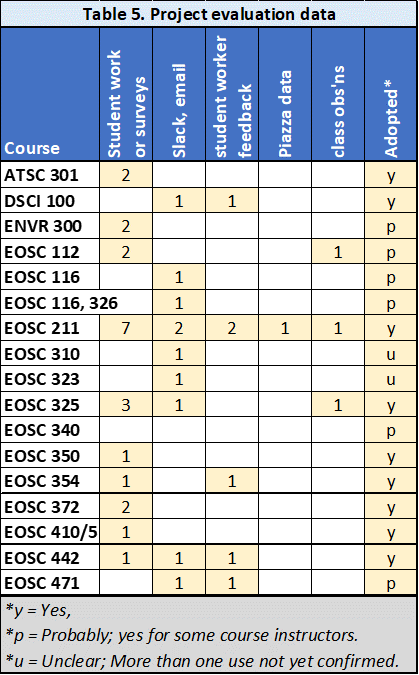
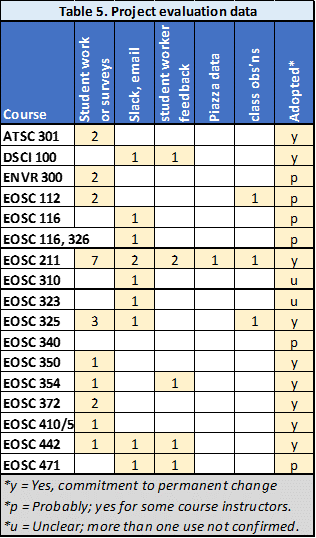
latest updates, May26

Changed region(s): [[0.0, 0.0, 1.0, 1.0]]

diff --git a/docs/presentations.md b/docs/presentations.md
@@ -1,22 +1,22 @@
-# Communications about OCESE project work
+# OCESE project work Communications
 
-Scholarly contributions are fewer than "normal" owing to constraints experienced between 2020 and 2022.
+Scholarly contributions are fewer than "normal" owing to constraints experienced between 2020 and 2023.
 
-## Scholarly contributions
+## Dissemination
 
-Scholarly contributions are fewer than we in EOAS would have expected owing to constraints experienced between 2020 and 2022. Most of the following were delivered at relatively informal events within UBC, but **>>two** were presented as peer-reviewed posters at formal conferences.
+Most of the following were delivered at relatively informal events within UBC. However, **>>two** were presented as peer-reviewed posters at formal conferences.
 
-1. **>>July 2023**: Jones, F., Austin, P., Invanochko, T. "[Lessons Learned While Implementing Open Source Computational Tools and Practices for Learning Quantitative Earth Sciences"](https://serc.carleton.edu/earth_rendezvous/2023/program/posters/friday/263242.html), Poster at **Earth Educators Rendezvous 2023** meeting, Pasadena, Calif.
-2. **May 2023**: Project progress report as a poster: [TLEF project summary: Embedding Opensource Computational Tools into the Quantitative Earth Science Specializations](https://tlef2.sites.olt.ubc.ca/files/2023/04/2023-SCI-Tara-Ivanochko.pdf).
-3. **May 2022**: P. Austin. "[Creating Inclusion and Accessibility through Data Science: Challenges and Solutions](https://wiki.ubc.ca/images/6/6f/Celebrate_Learning_-_Data_Science_and_Inclusion.pdf)"; Panel discussion, part of UBC's [Celebrate Learning](https://wiki.ubc.ca/Documentation:CTLT_programs/2022-Celebrate_Learning_Week) week.
-4. **May 2022**: Project progress report as a poster: [Future-ready computing & quantitative skills; opensource solutions in Earth Science courses](https://tlef2.sites.olt.ubc.ca/files/2022/05/2022-SCI-Tara-Ivanochko.pdf).
+1. **>>July 2023**: Jones, F., P. Austin, T. Invanochko, "[Lessons Learned While Implementing Open Source Computational Tools and Practices for Learning Quantitative Earth Sciences"](https://serc.carleton.edu/earth_rendezvous/2023/program/posters/friday/263242.html), Poster at **Earth Educators Rendezvous 2023** meeting, Pasadena, Calif.
+2. **May 2023**: Jones, F., P. Austin, T. Invanochko, Project progress report as a poster: [TLEF project summary: Embedding Opensource Computational Tools into the Quantitative Earth Science Specializations](https://tlef2.sites.olt.ubc.ca/files/2023/04/2023-SCI-Tara-Ivanochko.pdf).
+3. **May 2022**: P. Austin, "[Creating Inclusion and Accessibility through Data Science: Challenges and Solutions](https://wiki.ubc.ca/images/6/6f/Celebrate_Learning_-_Data_Science_and_Inclusion.pdf)"; Panel discussion, part of UBC's [Celebrate Learning](https://wiki.ubc.ca/Documentation:CTLT_programs/2022-Celebrate_Learning_Week) week.
+4. **May 2022**: Jones, F., P. Austin, T. Invanochko, Project progress report as a poster: [Future-ready computing & quantitative skills; opensource solutions in Earth Science courses](https://tlef2.sites.olt.ubc.ca/files/2022/05/2022-SCI-Tara-Ivanochko.pdf).
 5. **March 2022**: F. Jones, A short EOAS Dep't news item [about dashboards](https://www.eoas.ubc.ca/news-events/news/16485372001).
-6. **>>Dec 2021**: Jones, F., Schoof, C., Austin, P., Invanochko, T.: "[Reinvigorating Computational & Quantitative undergraduate Curricula for the Earth, Ocean, Atmospheric, Environmental and Planetary Sciences at UBC](https://agu2021fallmeeting-agu.ipostersessions.com/default.aspx?s=2A-C2-3D-E0-3B-DD-9A-5E-A3-C9-44-74-4B-06-45-A9)", **American Geophysical Union** ([AGU](https://www.agu.org/Fall-Meeting-2022)) poster (link may not be permanently available to the public). See also a [single HTML page](https://www.eoas.ubc.ca/~quest/agu2021-build-211215.htm) version.
-7. **May 2021**: UBC TLEF Showcase, [Opensource Computing for Earth Sciences Education: Lessons learned in year 1 of 3](https://tlef2.sites.olt.ubc.ca/files/2021/05/2021-TLEF-Showcase-SCI-Tara-Ivanochko.pdf).
-8. **May 2021**: P. Austing, Pangeo Showcase. <a href="files/austin_pangeo_may_2021.pdf">ΟCESE: Open source computing for Warth sciences education</a>. See also [video](https://discourse.pangeo.io/t/may-5-2021-ocese-open-source-computing-for-earth-science-education/1443) of the event.
-9. **Sept. 2020**: P. Austin, "[Building an open-source educational community around executable Jupyterbooks](https://ams.confex.com/ams/101ANNUAL/11python/papers/viewonly.cgi?password=582729&username=384767)". American Meteorolgical Society Annual Meeting. 
-10. **August 2020**: UBC [Jupyter Days](https://ubc-dsci.github.io/jupyterdays/), [Writing Canvas quizzes with Jupyter](https://github.com/UBC-DSCI/jupyterdays/blob/master/jupyterdays/sessions/austin-colclough/md2canvas.md)
-11. **July 2020**: Scipy 2020 "BoF" discussion session.
+6. **>>Dec 2021**: Jones, F., C. Shoof, P. Austin, T. Invanochko, "[Reinvigorating Computational & Quantitative undergraduate Curricula for the Earth, Ocean, Atmospheric, Environmental and Planetary Sciences at UBC](https://agu2021fallmeeting-agu.ipostersessions.com/default.aspx?s=2A-C2-3D-E0-3B-DD-9A-5E-A3-C9-44-74-4B-06-45-A9)" (link may not be permanently available to the public), **American Geophysical Union** ([AGU](https://www.agu.org/Fall-Meeting-2022)) poster. See also a [single HTML page](https://www.eoas.ubc.ca/~quest/agu2021-build-211215.htm) version.
+7. **May 2021**: Jones, F., P. Austin, T. Invanochko, UBC TLEF Showcase, [Opensource Computing for Earth Sciences Education: Lessons learned in year 1 of 3](https://tlef2.sites.olt.ubc.ca/files/2021/05/2021-TLEF-Showcase-SCI-Tara-Ivanochko.pdf).
+8. **May 2021**: P. Austin, Pangeo Showcase. ΟCESE: Open source computing for Earth sciences education. See also [video](https://discourse.pangeo.io/t/may-5-2021-ocese-open-source-computing-for-earth-science-education/1443) of the event.
+9. **Sept. 2020**: P. Austin, "[Building an open-source educational community around executable Jupyterbooks](https://ams.confex.com/ams/101ANNUAL/11python/papers/viewonly.cgi?password=582729&username=384767)". American Meteorolgical Society Annual Meeting.
+10. **August 2020**: P. Austin, M. Colclough, UBC [Jupyter Days](https://ubc-dsci.github.io/jupyterdays/), [Writing Canvas quizzes with Jupyter](https://github.com/UBC-DSCI/jupyterdays/blob/master/jupyterdays/sessions/austin-colclough/md2canvas.md)
+11. **July 2020**: P. Austin, Scipy 2020 "BoF" discussion session.
 
 ## EOAS or UBC meetings / workshops
 

diff --git a/docs/fix-list.md b/docs/fix-list.md
@@ -9,8 +9,6 @@ See also **[issues](https://github.com/eoas-ubc/eoas-ubc.github.io/issues)** at 
    * Dep't showcase,
    * TLEF poster,
    * EER poster
-* Courses top page: Change tables from "goals" to "delivered". Use "actions" listed in file `showcase notes 230215.docx`.
-* Jupyter / Python install based on EOSC 211 (and maybe EOSC 354). Does this include use of condalock?
 * Do tutorials need to be more like precedent, i.e. modular such as [Helsinki "short course"](https://autogis-site.readthedocs.io/en/latest/index.html), [Project Pythia](https://projectpythia.org/), or Atlasian tutorials, etc.? In fact, some may best be referenced to these types of existing ones tutorials?
 * Merge two github pages. They could be rewritten as summaries, perhaps based on (or simply pointing to?) the [Atlasian tutorials](https://www.atlassian.com/git/tutorials/comparing-workflows). Maybe also refer to [Ch.12 of the DSCI100 text](https://python.datasciencebook.ca/version-control.html) (still wiht R as context, but updates in progress).
 * Merge two environment pages
@@ -25,10 +23,10 @@ See also **[issues](https://github.com/eoas-ubc/eoas-ubc.github.io/issues)** at 
   * *Conda & environments* and *Using environments* need rationalizing and updating.
   * Refine the inclusion of Jupyter Notebooks. Python Skills check is included but I'm not sure if it's done the best way possible. And there may be other notebooks for tutorials or guidelines. But get one right first.
 * Add jupytext to pages about setting up J-notebooks, using notebooks for teaching, how J-Books uses it, and likely others.
-* Project outcomes summary (Executive summary) needs reconfiguring more like the poster and showcase outline. Priorities are not efficient, and the whole thing is long winded.
 * Servers and hubs: move, rename & rewrite; it's not really a how-to since we & others are still iterating towards optimal choices. It needs to be more like "lessons learned".
 * Other software tools - add quiz management for Canvas, PrairieLearn, support for JupyterBooks - others on the EOAS-UBC project board and elsewhere?
-* fine tune the new "Course enhancements" page.
+* "Rationalize" project evaluation pages.
+* The faculty training page needs to incorporate "student training", including feedback and reflections from students. It has been renamed in the ToC, but needs reworking. The perspective is training as a project outcome.
 
 ## Additions
 
@@ -38,6 +36,8 @@ See also **[issues](https://github.com/eoas-ubc/eoas-ubc.github.io/issues)** at 
 * Review Andrew L.'s two tutorials in "not used". They may have good content but are perhaps a bit "long-winded".
 * Revisit first-year accomplishments, including [md2canvas](https://github.com/eoas-ubc/md2canvas), AL's tutorials, and others. The [projects page](https://github.com/orgs/eoas-ubc/projects/1), and list of repositories may reveal items that need including or summarizing. Needs a walk-through with Phil.
 * List courses that could leverage lessons we learned to align with students' needs, efficiency, and departmental/curricular norms.
+* Gather quotes from workers (AL, BJ, IS) then place them in corresponding course pages, or in project evaluation pages. (Project eval pages may need consolidating.
+* Convert “Project evaluation” into “lessons learned”? Or add a lessons learned page?
 
 ## Specific courses
 
@@ -55,3 +55,8 @@ See also **[issues](https://github.com/eoas-ubc/eoas-ubc.github.io/issues)** at 
 * eosc471
 * eosc373 (describe actions and outcomes with Hal's JNB)
 * others?
+
+## Done
+* Courses top page: Change tables from "goals" to "delivered". Use "actions" listed in file `showcase notes 230215.docx`.
+* Jupyter / Python install based on EOSC 211 (and maybe EOSC 354). Does this include use of condalock? - see [Jupyer NB Startup](jnb-startup-win.md).
+* Project outcomes summary (Executive summary) needs reconfiguring more like the poster and showcase outline. Priorities are not efficient, and the whole thing is long winded.

diff --git a/docs/crs-eosc211.md b/docs/crs-eosc211.md
@@ -61,6 +61,20 @@ Five project goals are listed with summaries of actions taken for each.
   * midterm survey with ~100% response rate: MC and open questions. Summarized.
   * Standard UBC end of term "Student Experience of Instruction" survey.
 
+### b) Discussion board activity
+
+Piazza discussion board topics from the first and second year after transforming eosc211 are illustrated in the figure here. Apparently, student concerns raised on the Piazza platform were relatively similar in both terms.
+
+```{image} images/eosc211-piazzadata.png
+:alt: eosc211 Piazza data
+:align: right
+```
+
+* Most discussions were related to “code”. The course is all about programming for beginners and this is reflected in the consistent, high proportion of posts for both years.
+* A major challenge of deploying Python with Jupyter notebooks for 100 students was providing stable Jupyter Hubs. However, if counting the types of posts on Piazza is any indication, the relatively few posts about hubs in both 2021 and 2022 suggests that students may have been less concerned about these difficulties than instructors.
+* The main challenge for teachers in 2021 related to difficulties with the autograding software. This explains why there were more than twice as many posts about quizzes or exams in 2021 compared to 2022.
+
+
 ## Costs, Risks, and Recommendations
 
 * Auto-grading is essential. Prior to Python (i.e. before 2021) MatLab was the language and grading involved custom MatLab parsing code by R. Pawlowicz.

diff --git a/docs/facultydev.md b/docs/facultydev.md
@@ -1,4 +1,6 @@
-# Training for Faculty
+# Training for Faculty and students
+
+This section discussed opportunities, challenges and successes related to providing training for faculty and student project contributors. Aspects addressed include programming, designing teaching materials, pedagogy, developing "soft" or work-related skills, adapting existing expertise for a new setting, incorporating opensource resources and practices into teaching and research, and others. 
 
 ## 1. Introduction
 
@@ -40,7 +42,7 @@ All other courses could conceivably benefit from interactive concept simulations
 
 ## 3. Lessons to be conveyed
 
-Faculty Pro-D in the form of docs, guidelines, tutorials are emerging from all project threads, including DSCI100, EOSC211, upper level courses (ATSC301, EOSC354, EOSC410, & others), and dashboard use in courses that do not have students writing code.
+Faculty and student Pro-D in the form of docs, guidelines, tutorials are emerging from all project threads, including DSCI100, EOSC211, upper level courses (ATSC301, EOSC354, EOSC410, & others), and dashboard use in courses that do not have students writing code.
 
 Which procedures, resources or teaching tactics are more appropriate for workshops? Which for one-on-one support? Who is most appropriate for carrying out that kind of support?
 
